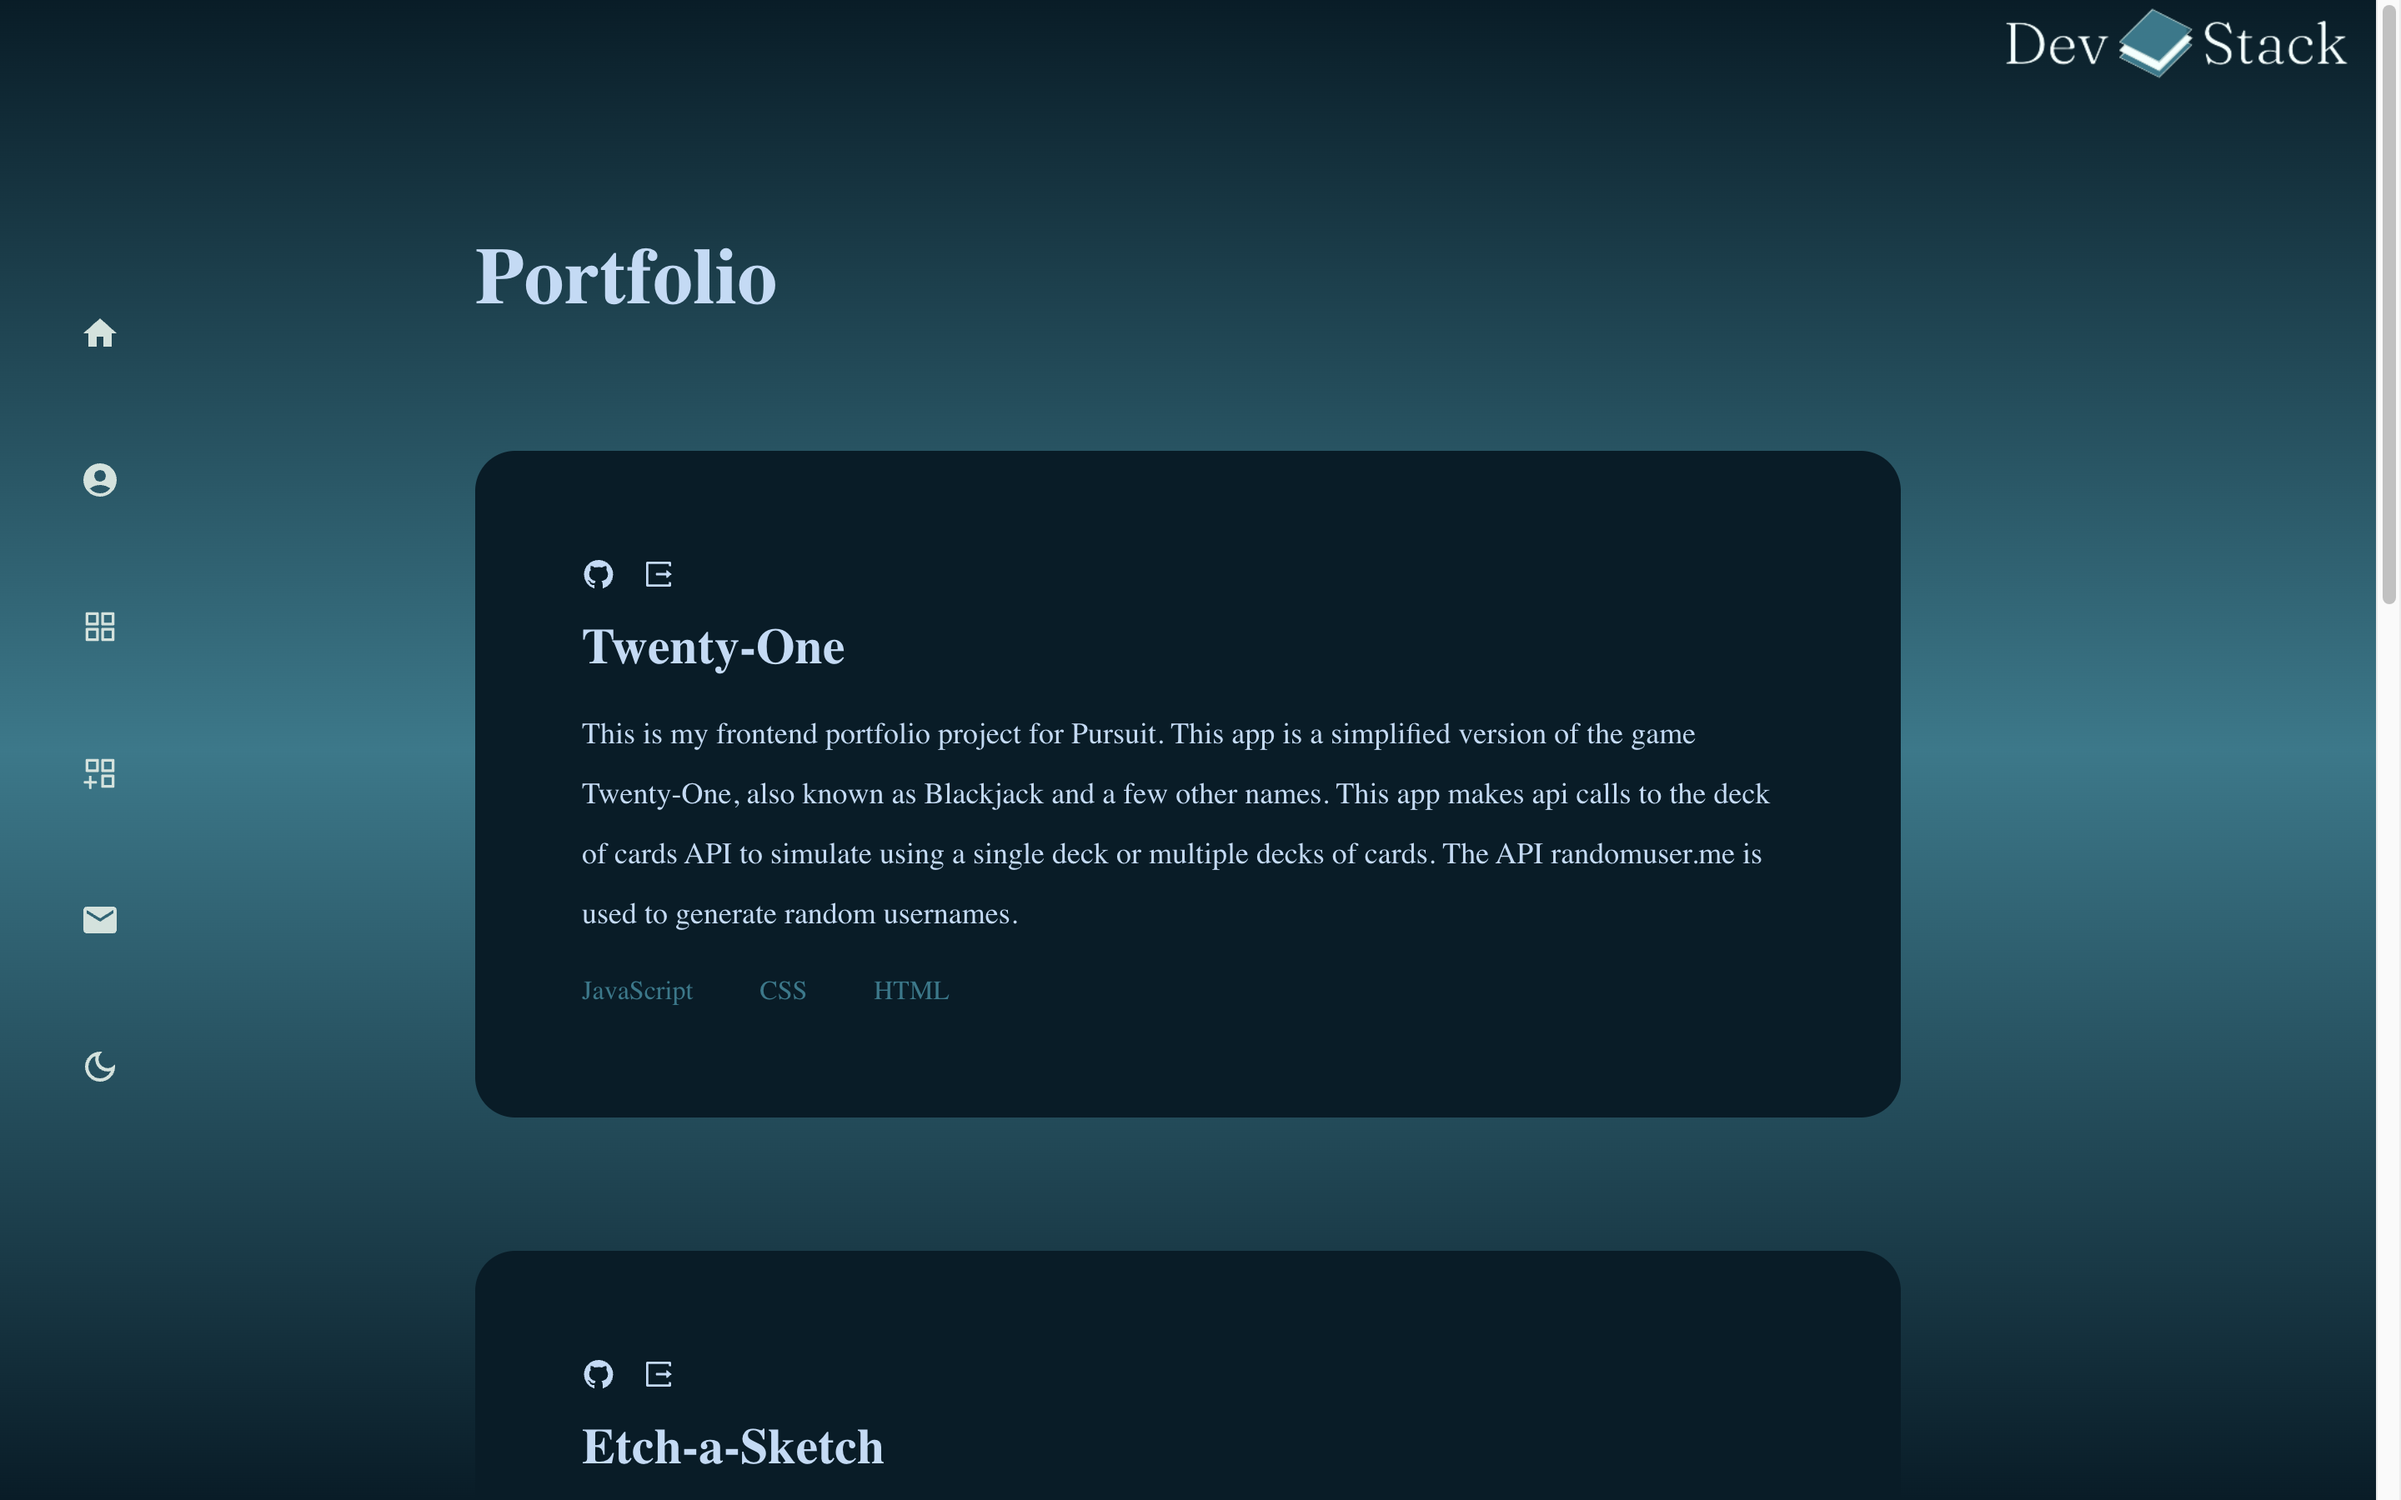
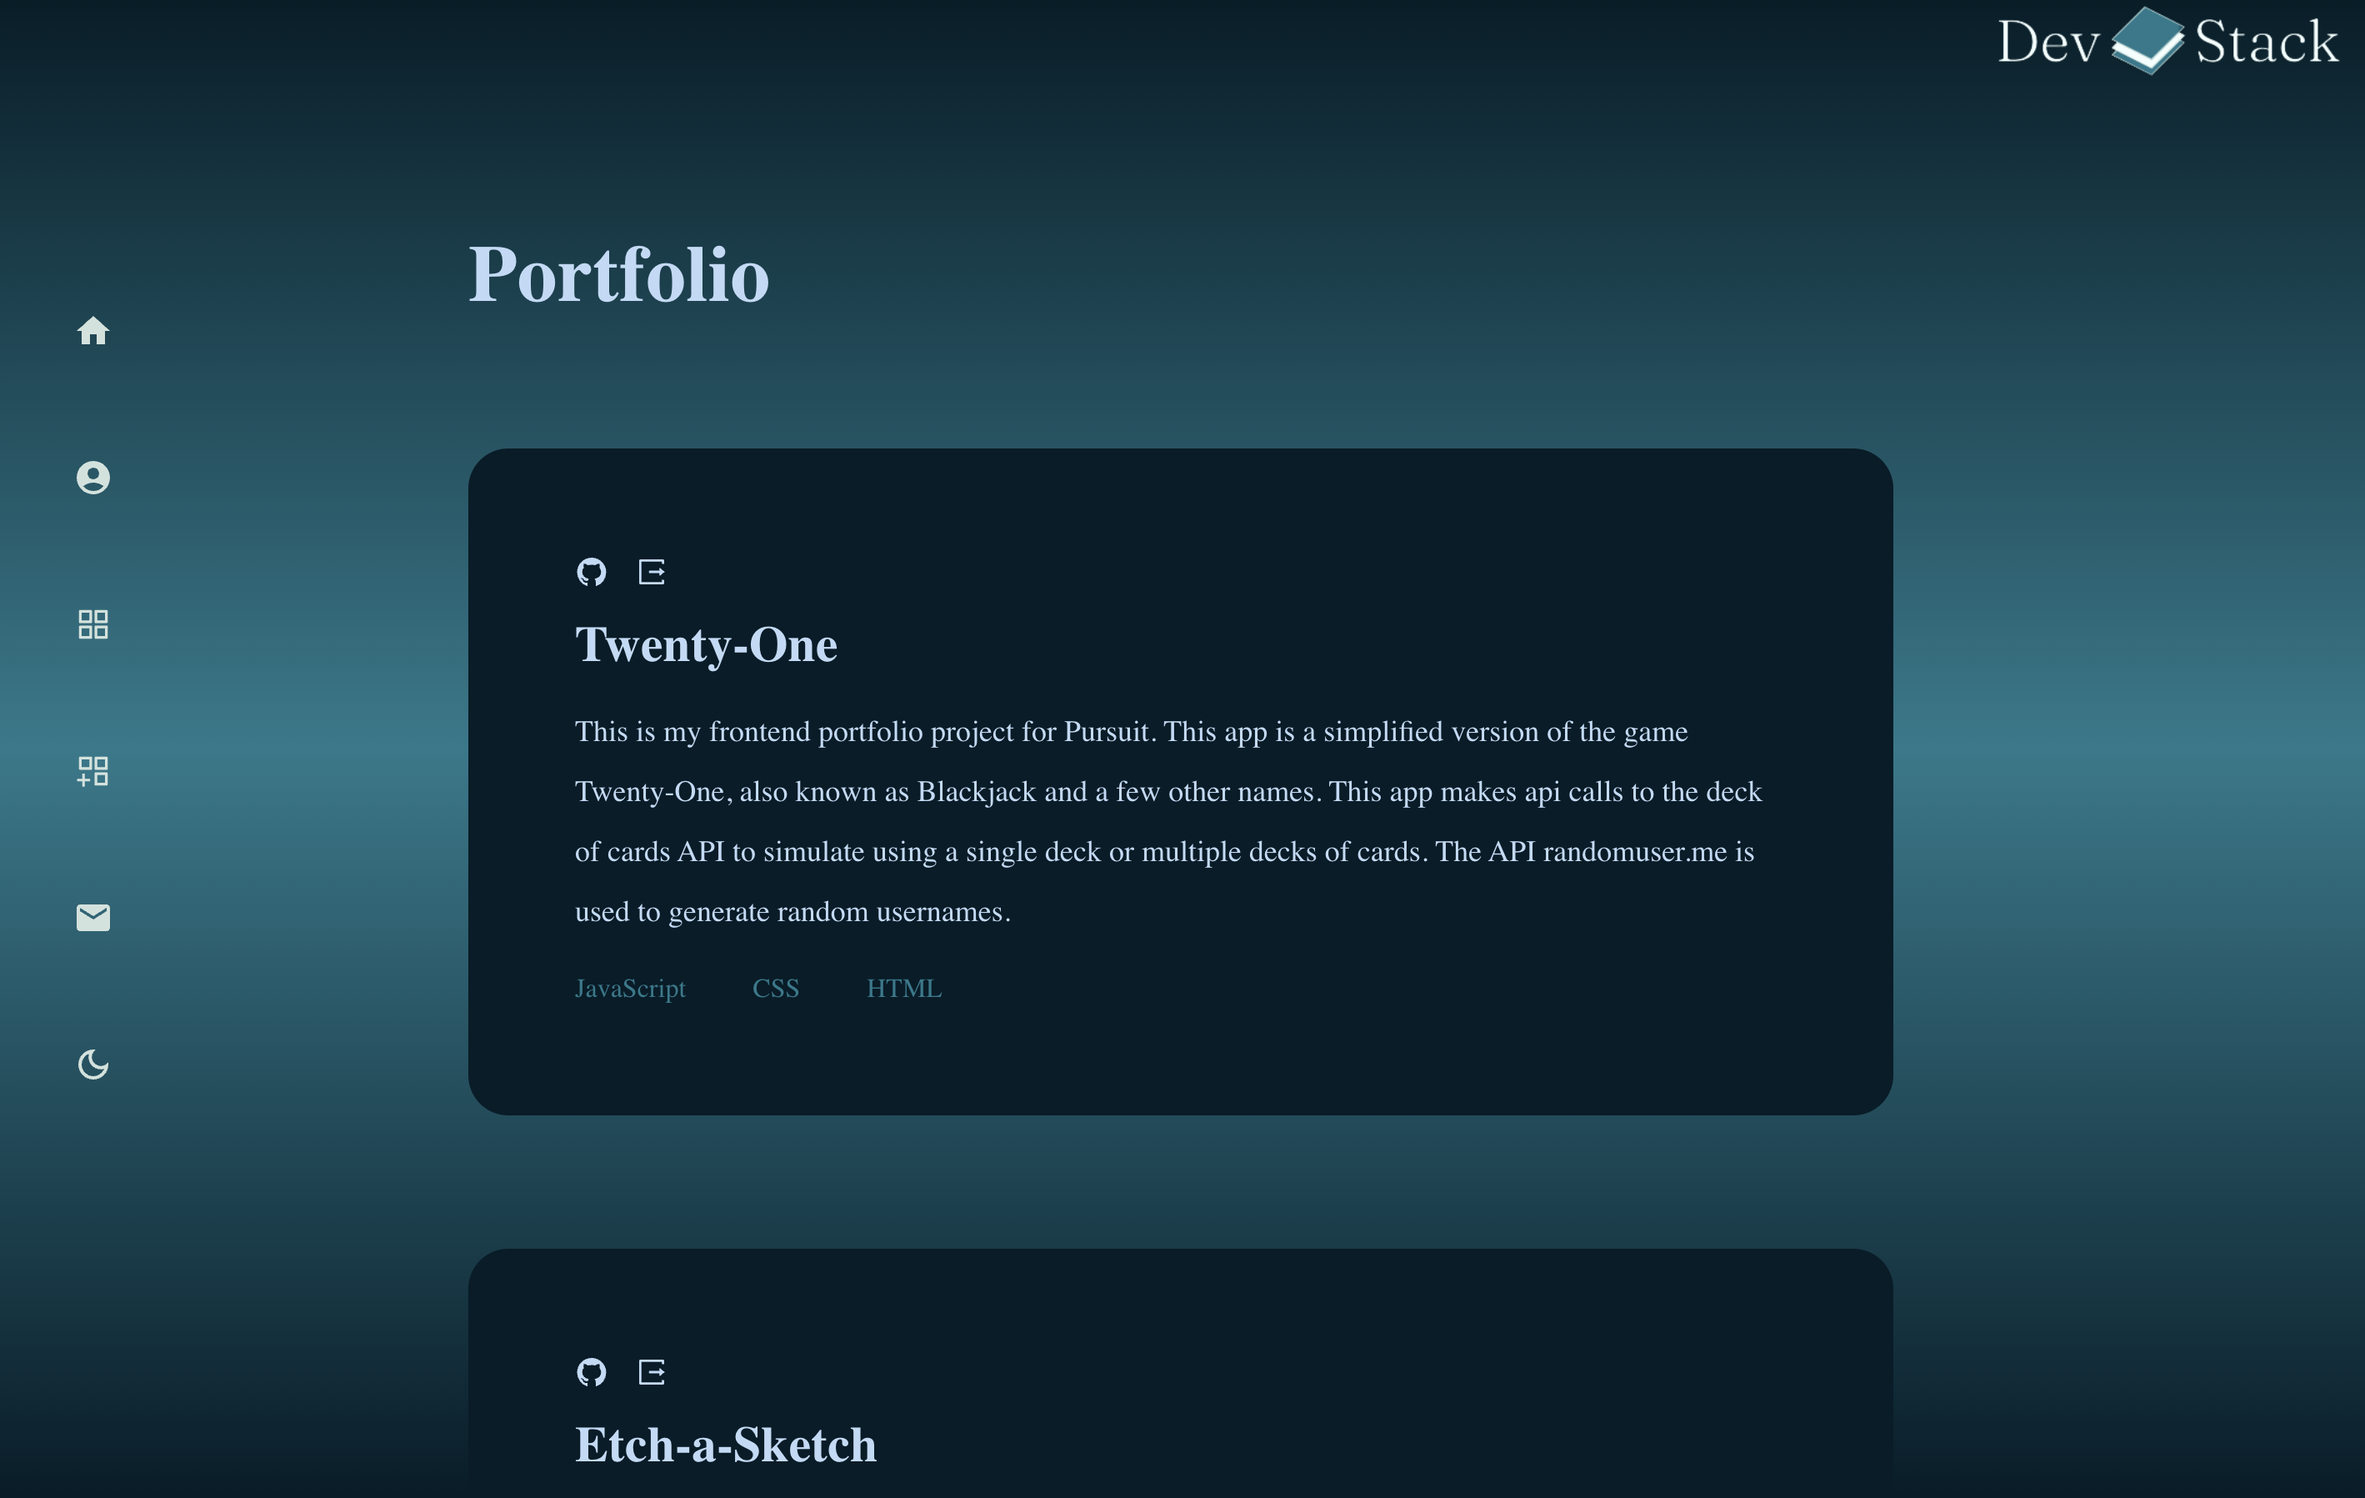
Update screenshot

diff --git a/src/Components/ProjectDetails.js b/src/Components/ProjectDetails.js
@@ -3,6 +3,8 @@ import { Link, useParams, useNavigate } from "react-router-dom";
 import axios from "axios";
 import { MdModeEdit, MdDelete } from "react-icons/md";
 import { AiFillGithub, AiOutlineExport } from "react-icons/ai";
+import { RiLoader5Fill } from "react-icons/ri";
+
 
 const API = process.env.REACT_APP_API_URL;
 
@@ -33,7 +35,12 @@ export default function ProjectDetails() {
     }, [id]);
 
     if (isLoading) {
-      return <div className="text-blue text-2xl">Loading...</div>;
+      return (
+        <div className="flex justify-center items-center mt-52 gap-2">
+          <h1 className="text-blue text-3xl">Loading</h1>
+          <RiLoader5Fill className="text-blue animate-spin-slow" size={30} />
+        </div>
+      );
     }
 
     const deleteProject = () => {
@@ -52,9 +59,15 @@ export default function ProjectDetails() {
     }
 
     return (
-      <div className="flex flex-col gap-10 p-20 bg-dark rounded-xl  font-semibold shadow-xl shadow-primary">
+      <div className="flex flex-col gap-10 p-10 bg-dark rounded-xl  font-semibold shadow-xl shadow-primary">
         <h1 className="text-5xl text-blue font-semibold">{project.title}</h1>
-        <img src={project.image} alt={project.title} className="rounded shadow-lg shadow-primary" />
+        <a href={project.image} target="_blank" rel="noreferrer">
+          <img
+            src={project.image}
+            alt={project.title}
+            className="rounded shadow-lg shadow-primary"
+          />
+        </a>
         <p className="text-lg text-blue leading-loose">{project.description}</p>
         <ul className="flex gap-4">
           {project.tech.map((str, index) => {
@@ -74,7 +87,10 @@ export default function ProjectDetails() {
               rel="noreferrer"
               className="text-blue"
             >
-              <AiFillGithub className="p-2 hover:text-primary rounded-full" size={40} />
+              <AiFillGithub
+                className="p-2 hover:text-primary rounded-full"
+                size={40}
+              />
             </a>
             <a
               href={project.demo_link}
@@ -82,7 +98,10 @@ export default function ProjectDetails() {
               rel="noreferrer"
               className="text-blue"
             >
-              <AiOutlineExport className="p-2 hover:text-primary rounded-full" size={40} />
+              <AiOutlineExport
+                className="p-2 hover:text-primary rounded-full"
+                size={40}
+              />
             </a>
           </div>
           <div className="flex items-center relative">

diff --git a/src/Pages/Show.js b/src/Pages/Show.js
@@ -1,5 +1,5 @@
 import ProjectDetails from "../Components/ProjectDetails";
 
 export default function Show() {
-  return <div className="mx-[15%] py-[10%]"><ProjectDetails /></div>;
+  return <div className="mx-4 py-20"><ProjectDetails /></div>;
 }
